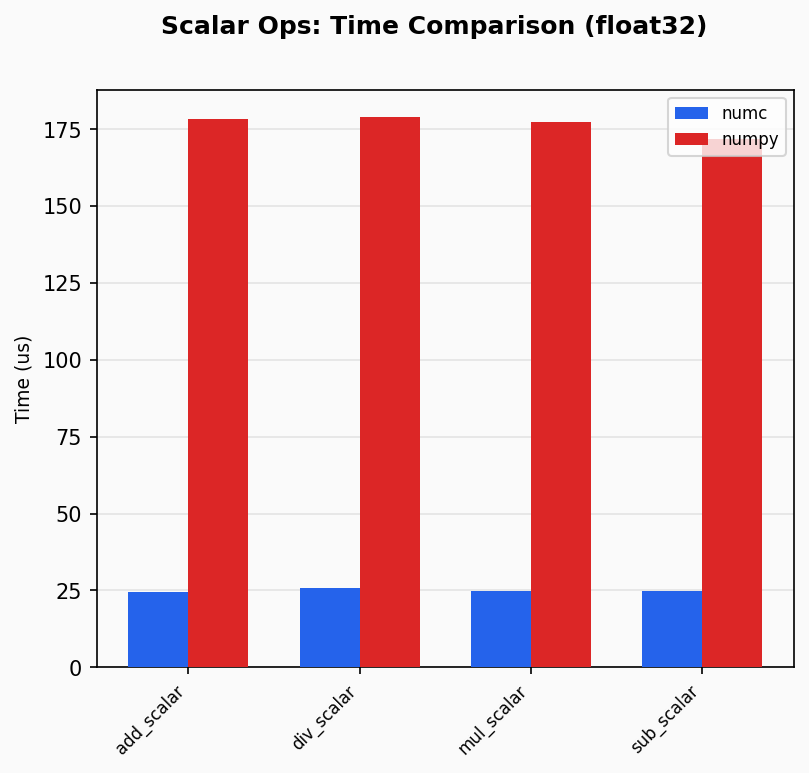
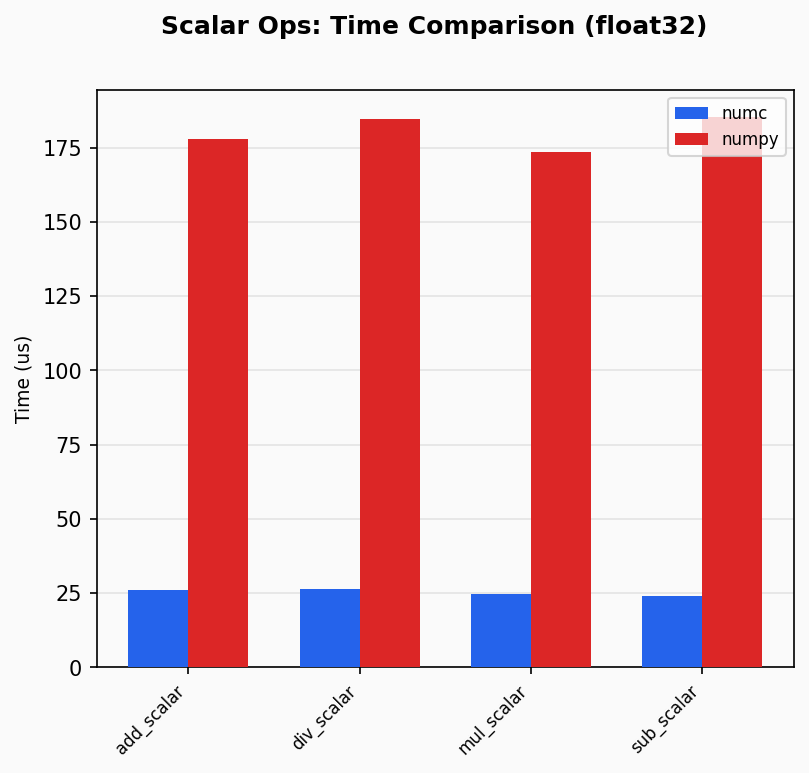
perf: f32 AVX2 ukernel BLIS/OpenBLAS-style B pre-load + 2 broadcast regs
Rewrite f32 6×16 micro-kernel with same pattern as f64 tuning (f890a0f):
- B vectors pre-loaded at END of each K-iter (eliminates load-use stall)
- 2 alternating A broadcast registers ymm14/ymm15 (breaks serial dep chain)
- All 16 YMM registers now utilized (was 15)
- C prefetch refresh before store (catches L1 evictions during long K-loops)
- Explicit A/B prefetches removed (HW prefetcher handles packed sequential)

f32 512×512:  ~641μs → ~460-490μs (~25-30% faster, consistently >1.0x vs NumPy)
f32 1024×1024: ~4380μs → ~4312μs (~5-7% faster)

diff --git a/src/intrinsics/gemm_avx2.h b/src/intrinsics/gemm_avx2.h
@@ -275,62 +275,62 @@ static inline void gemm_pack_a_f64(const double *a, double *packed, size_t mc,
 }
 
 /* ═══════════════════════════════════════════════════════════════════════════
-   Float32: 6×16 micro-kernel  (12 acc + 1 A broadcast + 2 B loads = 15 YMM)
+   Float32: 6×16 micro-kernel  (12 acc + 2 A broadcast + 2 B loads = 16 YMM)
+   BLIS-style B pre-load: B vectors loaded at end of prev iter, ready for
+   next iter. 2 alternating A broadcast registers for better ILP.
    ═══════════════════════════════════════════════════════════════════════════
  */
 
-/* One K-iteration of the 6×16 micro-kernel body.
- * ap points to 6 packed A values (MR stride), bp points to 16 packed B values.
- * 12 FMA instructions: 6 broadcasts × 2 B-vector halves. */
-#define GEMM_F32_K_ITER(ap, bp)            \
-  do {                                     \
-    __m256 b0 = _mm256_loadu_ps(bp);       \
-    __m256 b1 = _mm256_loadu_ps((bp) + 8); \
-    __m256 av;                             \
-    av = _mm256_broadcast_ss((ap) + 0);    \
-    c00 = _mm256_fmadd_ps(av, b0, c00);    \
-    c01 = _mm256_fmadd_ps(av, b1, c01);    \
-    av = _mm256_broadcast_ss((ap) + 1);    \
-    c10 = _mm256_fmadd_ps(av, b0, c10);    \
-    c11 = _mm256_fmadd_ps(av, b1, c11);    \
-    av = _mm256_broadcast_ss((ap) + 2);    \
-    c20 = _mm256_fmadd_ps(av, b0, c20);    \
-    c21 = _mm256_fmadd_ps(av, b1, c21);    \
-    av = _mm256_broadcast_ss((ap) + 3);    \
-    c30 = _mm256_fmadd_ps(av, b0, c30);    \
-    c31 = _mm256_fmadd_ps(av, b1, c31);    \
-    av = _mm256_broadcast_ss((ap) + 4);    \
-    c40 = _mm256_fmadd_ps(av, b0, c40);    \
-    c41 = _mm256_fmadd_ps(av, b1, c41);    \
-    av = _mm256_broadcast_ss((ap) + 5);    \
-    c50 = _mm256_fmadd_ps(av, b0, c50);    \
-    c51 = _mm256_fmadd_ps(av, b1, c51);    \
+/* MSVC intrinsics K-iter: B pre-loaded in b0/b1 before call. */
+#define GEMM_F32_K_ITER(ap, b0, b1)             \
+  do {                                          \
+    __m256 a0 = _mm256_broadcast_ss((ap) + 0);  \
+    __m256 a1 = _mm256_broadcast_ss((ap) + 1);  \
+    c00 = _mm256_fmadd_ps(a0, b0, c00);         \
+    c01 = _mm256_fmadd_ps(a0, b1, c01);         \
+    c10 = _mm256_fmadd_ps(a1, b0, c10);         \
+    c11 = _mm256_fmadd_ps(a1, b1, c11);         \
+    a0 = _mm256_broadcast_ss((ap) + 2);         \
+    a1 = _mm256_broadcast_ss((ap) + 3);         \
+    c20 = _mm256_fmadd_ps(a0, b0, c20);         \
+    c21 = _mm256_fmadd_ps(a0, b1, c21);         \
+    c30 = _mm256_fmadd_ps(a1, b0, c30);         \
+    c31 = _mm256_fmadd_ps(a1, b1, c31);         \
+    a0 = _mm256_broadcast_ss((ap) + 4);         \
+    a1 = _mm256_broadcast_ss((ap) + 5);         \
+    c40 = _mm256_fmadd_ps(a0, b0, c40);         \
+    c41 = _mm256_fmadd_ps(a0, b1, c41);         \
+    c50 = _mm256_fmadd_ps(a1, b0, c50);         \
+    c51 = _mm256_fmadd_ps(a1, b1, c51);         \
   } while (0)
 
 /* clang-format off */
-#define GEMM_F32_ASM_K_ITER                     \
-  "vmovups (%[bp]), %%ymm12\n\t"                \
-  "vmovups 32(%[bp]), %%ymm13\n\t"              \
-  "vbroadcastss (%[ap]), %%ymm14\n\t"           \
-  "vfmadd231ps %%ymm14, %%ymm12, %%ymm0\n\t"   \
-  "vfmadd231ps %%ymm14, %%ymm13, %%ymm1\n\t"   \
-  "vbroadcastss 4(%[ap]), %%ymm14\n\t"          \
-  "vfmadd231ps %%ymm14, %%ymm12, %%ymm2\n\t"   \
-  "vfmadd231ps %%ymm14, %%ymm13, %%ymm3\n\t"   \
-  "vbroadcastss 8(%[ap]), %%ymm14\n\t"          \
-  "vfmadd231ps %%ymm14, %%ymm12, %%ymm4\n\t"   \
-  "vfmadd231ps %%ymm14, %%ymm13, %%ymm5\n\t"   \
-  "vbroadcastss 12(%[ap]), %%ymm14\n\t"         \
-  "vfmadd231ps %%ymm14, %%ymm12, %%ymm6\n\t"   \
-  "vfmadd231ps %%ymm14, %%ymm13, %%ymm7\n\t"   \
-  "vbroadcastss 16(%[ap]), %%ymm14\n\t"         \
-  "vfmadd231ps %%ymm14, %%ymm12, %%ymm8\n\t"   \
-  "vfmadd231ps %%ymm14, %%ymm13, %%ymm9\n\t"   \
-  "vbroadcastss 20(%[ap]), %%ymm14\n\t"         \
-  "vfmadd231ps %%ymm14, %%ymm12, %%ymm10\n\t"  \
-  "vfmadd231ps %%ymm14, %%ymm13, %%ymm11\n\t"  \
-  "add %[csa_bytes], %[ap]\n\t"                 \
-  "add %[rsb_bytes], %[bp]\n\t"
+/* BLIS-style ASM K-iter: B pre-loaded in ymm12/ymm13 from previous
+ * iteration. Uses 2 A broadcast registers (ymm14/ymm15) for ILP.
+ * Pre-loads next B at end for next iteration. */
+#define GEMM_F32_ASM_K_ITER                      \
+  "vbroadcastss (%[ap]), %%ymm14\n\t"            \
+  "vbroadcastss 4(%[ap]), %%ymm15\n\t"           \
+  "vfmadd231ps %%ymm14, %%ymm12, %%ymm0\n\t"    \
+  "vfmadd231ps %%ymm14, %%ymm13, %%ymm1\n\t"    \
+  "vfmadd231ps %%ymm15, %%ymm12, %%ymm2\n\t"    \
+  "vfmadd231ps %%ymm15, %%ymm13, %%ymm3\n\t"    \
+  "vbroadcastss 8(%[ap]), %%ymm14\n\t"           \
+  "vbroadcastss 12(%[ap]), %%ymm15\n\t"          \
+  "vfmadd231ps %%ymm14, %%ymm12, %%ymm4\n\t"    \
+  "vfmadd231ps %%ymm14, %%ymm13, %%ymm5\n\t"    \
+  "vfmadd231ps %%ymm15, %%ymm12, %%ymm6\n\t"    \
+  "vfmadd231ps %%ymm15, %%ymm13, %%ymm7\n\t"    \
+  "vbroadcastss 16(%[ap]), %%ymm14\n\t"          \
+  "vbroadcastss 20(%[ap]), %%ymm15\n\t"          \
+  "vfmadd231ps %%ymm14, %%ymm12, %%ymm8\n\t"    \
+  "vfmadd231ps %%ymm14, %%ymm13, %%ymm9\n\t"    \
+  "vfmadd231ps %%ymm15, %%ymm12, %%ymm10\n\t"   \
+  "vfmadd231ps %%ymm15, %%ymm13, %%ymm11\n\t"   \
+  "add %[csa_bytes], %[ap]\n\t"                  \
+  "add %[rsb_bytes], %[bp]\n\t"                  \
+  "vmovups (%[bp]), %%ymm12\n\t"                 \
+  "vmovups 32(%[bp]), %%ymm13\n\t"
 /* clang-format on */
 
 #if defined(__GNUC__) || defined(__clang__)
@@ -398,6 +398,10 @@ static inline void gemm_ukernel_f32_6x16(const float *a, const float *b,
       "vmovups 32(%[c5]), %%ymm11\n\t"
 
       "2:\n\t"
+      /* Pre-load first B vector pair (BLIS-style) */
+      "vmovups (%[bp]), %%ymm12\n\t"
+      "vmovups 32(%[bp]), %%ymm13\n\t"
+
       /* K-loop: k_iter = kc >> 3 (8× unrolled) */
       "mov %[kc], %%rcx\n\t"
       "shr $3, %%rcx\n\t"
@@ -405,17 +409,14 @@ static inline void gemm_ukernel_f32_6x16(const float *a, const float *b,
 
       ".p2align 5\n\t"
       "3:\n\t"
-      /* === K iterations 0-1 === */
-      GEMM_F32_ASM_K_ITER GEMM_F32_ASM_K_ITER
-      "prefetcht0 384(%[ap])\n\t" /* A ahead */
-      /* === K iterations 2-3 === */
-      GEMM_F32_ASM_K_ITER GEMM_F32_ASM_K_ITER
-      "prefetcht0 512(%[bp])\n\t" /* B ahead */
-      /* === K iterations 4-5 === */
-      GEMM_F32_ASM_K_ITER GEMM_F32_ASM_K_ITER
-      "prefetcht0 768(%[ap])\n\t" /* A further */
-      /* === K iterations 6-7 === */
-      GEMM_F32_ASM_K_ITER GEMM_F32_ASM_K_ITER
+      GEMM_F32_ASM_K_ITER /* iter 0 */
+      GEMM_F32_ASM_K_ITER /* iter 1 */
+      GEMM_F32_ASM_K_ITER /* iter 2 */
+      GEMM_F32_ASM_K_ITER /* iter 3 */
+      GEMM_F32_ASM_K_ITER /* iter 4 */
+      GEMM_F32_ASM_K_ITER /* iter 5 */
+      GEMM_F32_ASM_K_ITER /* iter 6 */
+      GEMM_F32_ASM_K_ITER /* iter 7 */
 
       "dec %%rcx\n\t"
       "jnz 3b\n\t"
@@ -428,32 +429,19 @@ static inline void gemm_ukernel_f32_6x16(const float *a, const float *b,
 
       ".p2align 5\n\t"
       "5:\n\t"
-      "vmovups (%[bp]), %%ymm12\n\t"
-      "vmovups 32(%[bp]), %%ymm13\n\t"
-      "vbroadcastss (%[ap]), %%ymm14\n\t"
-      "vfmadd231ps %%ymm14, %%ymm12, %%ymm0\n\t"
-      "vfmadd231ps %%ymm14, %%ymm13, %%ymm1\n\t"
-      "vbroadcastss 4(%[ap]), %%ymm14\n\t"
-      "vfmadd231ps %%ymm14, %%ymm12, %%ymm2\n\t"
-      "vfmadd231ps %%ymm14, %%ymm13, %%ymm3\n\t"
-      "vbroadcastss 8(%[ap]), %%ymm14\n\t"
-      "vfmadd231ps %%ymm14, %%ymm12, %%ymm4\n\t"
-      "vfmadd231ps %%ymm14, %%ymm13, %%ymm5\n\t"
-      "vbroadcastss 12(%[ap]), %%ymm14\n\t"
-      "vfmadd231ps %%ymm14, %%ymm12, %%ymm6\n\t"
-      "vfmadd231ps %%ymm14, %%ymm13, %%ymm7\n\t"
-      "vbroadcastss 16(%[ap]), %%ymm14\n\t"
-      "vfmadd231ps %%ymm14, %%ymm12, %%ymm8\n\t"
-      "vfmadd231ps %%ymm14, %%ymm13, %%ymm9\n\t"
-      "vbroadcastss 20(%[ap]), %%ymm14\n\t"
-      "vfmadd231ps %%ymm14, %%ymm12, %%ymm10\n\t"
-      "vfmadd231ps %%ymm14, %%ymm13, %%ymm11\n\t"
-      "add %[csa_bytes], %[ap]\n\t"
-      "add %[rsb_bytes], %[bp]\n\t"
+      GEMM_F32_ASM_K_ITER
       "dec %%rcx\n\t"
       "jnz 5b\n\t"
 
       "6:\n\t"
+      /* Refresh C prefetch — lines may have been evicted during
+       * K-loop (A+B data exceeds L1 for large K) */
+      "prefetcht0 (%[c0])\n\t"
+      "prefetcht0 (%[c1])\n\t"
+      "prefetcht0 (%[c2])\n\t"
+      "prefetcht0 (%[c3])\n\t"
+      "prefetcht0 (%[c4])\n\t"
+      "prefetcht0 (%[c5])\n\t"
       /* Store accumulators to C */
       "vmovups %%ymm0, (%[c0])\n\t"
       "vmovups %%ymm1, 32(%[c0])\n\t"
@@ -473,7 +461,8 @@ static inline void gemm_ukernel_f32_6x16(const float *a, const float *b,
         [c5] "r"(c5), [kc] "r"((uint64_t)kc), [first] "r"(first),
         [csa_bytes] "r"(csa_bytes), [rsb_bytes] "r"(rsb_bytes)
       : "rcx", "memory", "ymm0", "ymm1", "ymm2", "ymm3", "ymm4", "ymm5", "ymm6",
-        "ymm7", "ymm8", "ymm9", "ymm10", "ymm11", "ymm12", "ymm13", "ymm14");
+        "ymm7", "ymm8", "ymm9", "ymm10", "ymm11", "ymm12", "ymm13", "ymm14",
+        "ymm15");
 }
 
 #else /* MSVC fallback — C intrinsics version */
@@ -520,47 +509,72 @@ static inline void gemm_ukernel_f32_6x16(const float *a, const float *b,
     c51 = _mm256_loadu_ps(c + 5 * rso + 8);
   }
 
-  /* Pointer-based iteration through packed A (stride MR=6) and B (stride
-   * NR=16). 8× unrolled K-loop (BLIS pattern: k_iter = kc/8, k_left = kc%8). */
   const float *ap = a;
   const float *bp = b;
   size_t k_iter = kc / 8;
   size_t k_left = kc % 8;
 
+  /* Pre-load first B vector pair (BLIS-style) */
+  __m256 b0 = _mm256_loadu_ps(bp);
+  __m256 b1 = _mm256_loadu_ps(bp + 8);
+
   for (size_t ki = 0; ki < k_iter; ki++) {
-    GEMM_F32_K_ITER(ap, bp);
+    GEMM_F32_K_ITER(ap, b0, b1);
     ap += csa;
     bp += rsb;
-    GEMM_F32_K_ITER(ap, bp);
+    b0 = _mm256_loadu_ps(bp);
+    b1 = _mm256_loadu_ps(bp + 8);
+    GEMM_F32_K_ITER(ap, b0, b1);
     ap += csa;
     bp += rsb;
-    _mm_prefetch((const char *)(ap + 96), _MM_HINT_T0);
-    GEMM_F32_K_ITER(ap, bp);
+    b0 = _mm256_loadu_ps(bp);
+    b1 = _mm256_loadu_ps(bp + 8);
+    GEMM_F32_K_ITER(ap, b0, b1);
     ap += csa;
     bp += rsb;
-    GEMM_F32_K_ITER(ap, bp);
+    b0 = _mm256_loadu_ps(bp);
+    b1 = _mm256_loadu_ps(bp + 8);
+    GEMM_F32_K_ITER(ap, b0, b1);
     ap += csa;
     bp += rsb;
-    _mm_prefetch((const char *)(bp + 128), _MM_HINT_T0);
-    GEMM_F32_K_ITER(ap, bp);
+    b0 = _mm256_loadu_ps(bp);
+    b1 = _mm256_loadu_ps(bp + 8);
+    GEMM_F32_K_ITER(ap, b0, b1);
     ap += csa;
     bp += rsb;
-    GEMM_F32_K_ITER(ap, bp);
+    b0 = _mm256_loadu_ps(bp);
+    b1 = _mm256_loadu_ps(bp + 8);
+    GEMM_F32_K_ITER(ap, b0, b1);
     ap += csa;
     bp += rsb;
-    _mm_prefetch((const char *)(ap + 192), _MM_HINT_T0);
-    GEMM_F32_K_ITER(ap, bp);
+    b0 = _mm256_loadu_ps(bp);
+    b1 = _mm256_loadu_ps(bp + 8);
+    GEMM_F32_K_ITER(ap, b0, b1);
     ap += csa;
     bp += rsb;
-    GEMM_F32_K_ITER(ap, bp);
+    b0 = _mm256_loadu_ps(bp);
+    b1 = _mm256_loadu_ps(bp + 8);
+    GEMM_F32_K_ITER(ap, b0, b1);
     ap += csa;
     bp += rsb;
+    b0 = _mm256_loadu_ps(bp);
+    b1 = _mm256_loadu_ps(bp + 8);
   }
   for (size_t ki = 0; ki < k_left; ki++) {
-    GEMM_F32_K_ITER(ap, bp);
+    GEMM_F32_K_ITER(ap, b0, b1);
     ap += csa;
     bp += rsb;
+    b0 = _mm256_loadu_ps(bp);
+    b1 = _mm256_loadu_ps(bp + 8);
   }
+
+  /* Refresh C prefetch — lines may have been evicted during K-loop */
+  _mm_prefetch((const char *)(c), _MM_HINT_T0);
+  _mm_prefetch((const char *)(c + rso), _MM_HINT_T0);
+  _mm_prefetch((const char *)(c + 2 * rso), _MM_HINT_T0);
+  _mm_prefetch((const char *)(c + 3 * rso), _MM_HINT_T0);
+  _mm_prefetch((const char *)(c + 4 * rso), _MM_HINT_T0);
+  _mm_prefetch((const char *)(c + 5 * rso), _MM_HINT_T0);
 
   _mm256_storeu_ps(c, c00);
   _mm256_storeu_ps(c + 8, c01);
